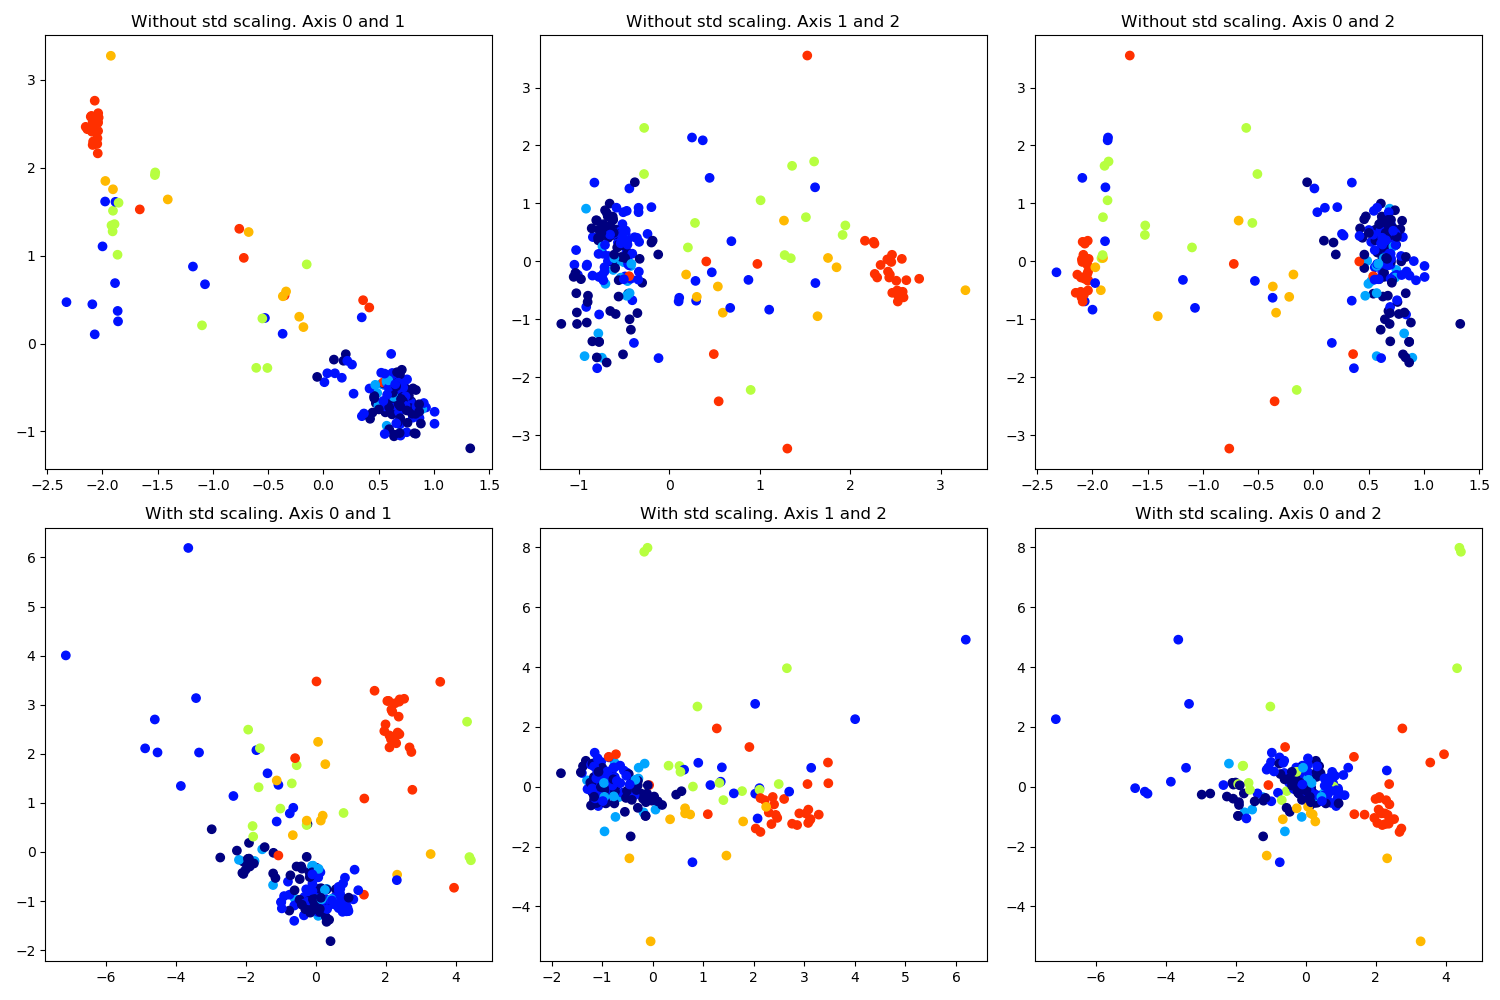
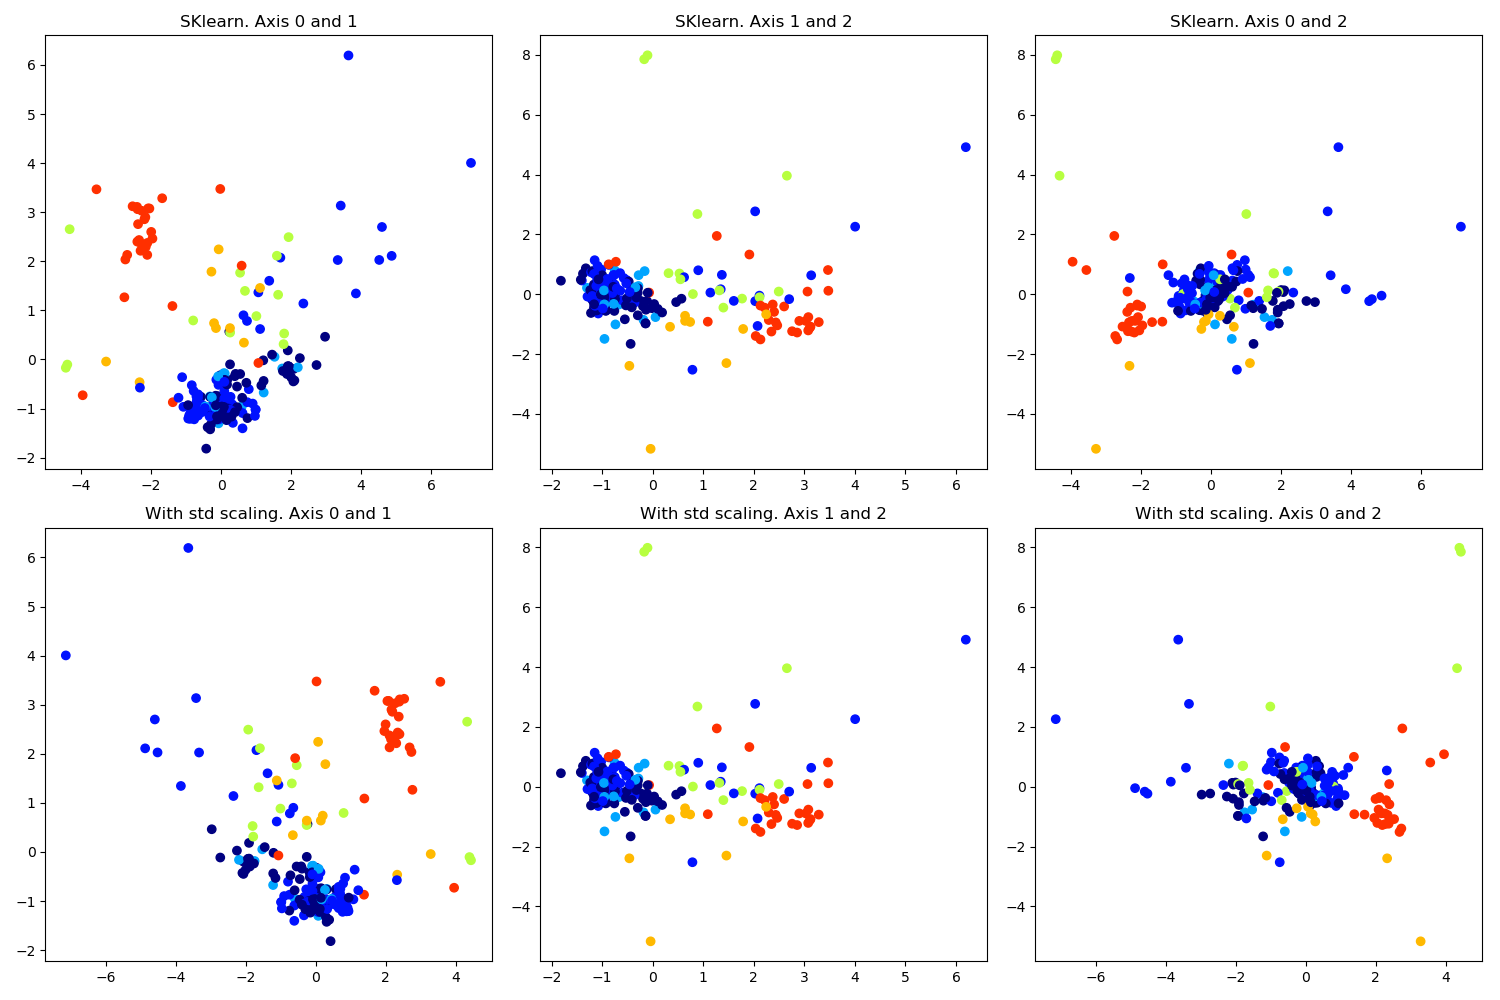
Add pca options for plot

diff --git a/lab2/pca.py b/lab2/pca.py
@@ -24,6 +24,9 @@ if len(sys.argv) != 2:
 #DATASET = "datasets/wine.arff"
 DATASET = sys.argv[1]
 GRAPH = True
+ERROR = False
+CORR = False #Plot covariance/correlation matrix?
+FIRST_COMP = False #Plot first components of X and Y?
 
 bn = os.path.basename(DATASET)
 img_fn = bn.replace('.arff', '.png')
@@ -59,14 +62,15 @@ mean_vec = np.matrix(np.mean(X, axis=0))
 n, m = X.shape
 M = np.repeat(mean_vec, n, axis=0)
 M = np.array(M)
-Xs = (X - M)
+Xc = (X - M) # Xc = X centered
 #sd = 1
-sd = np.std(Xs, axis=0)
-Xss = Xs/sd # Problem with division by 0
-Xss = np.nan_to_num(Xss)
+sd = np.std(Xc, axis=0)
+Xcs = Xc/sd # Xcs = X centered and scaled
+# Problem with division by 0
+Xcs = np.nan_to_num(Xcs)
 
-def PCA(Xs):
-	S = np.cov(Xs.T)
+def PCA(Xc):
+	S = np.cov(Xc.T)
 	eival, eivec = np.linalg.eig(S)
 
 	# Sort
@@ -85,75 +89,135 @@ def PCA(Xs):
 	k_fraq = np.sum(eival_bool)
 
 	k = max(3, k_fraq)
-	print(eival)
-	print(eival_cum)
-	print('k = {}'.format(k))
+	#print(eival)
+	#print(eival_cum)
+	#print('k = {}'.format(k))
 
 	keival = eival[0:k]
 	Zk = Z[:,0:k]
 
-	Yk = np.dot(Xs, Zk)
+	Yk = np.dot(Xc, Zk)
 
-	return Yk,keival
+	return Yk,keival,Zk
 
-#Yk, keival1 = PCA(Xs)
-Yks, keival = PCA(Xss)
+Yk, keival1, Zk = PCA(Xc)
+Yks, keival, Zks = PCA(Xcs)
 
+n_features = X.shape[1]
+k=keival.shape[0]
 skpca = skPCA(keival.shape[0])
-skpca.fit(Xss)
+skpca.fit(Xcs)
 res = skpca.explained_variance_
-skYk = skpca.transform(Xss)
+skYk = skpca.transform(Xcs)
 
 dist = round(np.linalg.norm(keival-res))
 
-print("Distance between our eigenvalues and SKlearn: {}".format(dist))
+#print("Distance between our eigenvalues and SKlearn: {}".format(dist))
 
-# Set the color map to match the number of species
-hot = plt.get_cmap('jet')
-cNorm  = colors.Normalize(vmin=0, vmax=len(classes))
-scalarMap = cmx.ScalarMappable(norm=cNorm, cmap=hot)
+# Project back the data
+Xc_ = np.dot(Yk, Zk.T) + M
+Xcs_ = np.dot(Yks, Zks.T)*sd + M
+
+from numpy.linalg import norm
+
+abs_cov = norm(X - Xc_)
+abs_cor = norm(X - Xcs_)
+
+rel_cov = abs_cov/norm(X)
+rel_cor = abs_cor/norm(X)
+
+#print("{}: R. err. cov={:.2f} cor={:.2f}. Abs. err cov={:.2f} cor={:.2f}".format(
+#	DATASET, rel_cov, rel_cor, abs_cov, abs_cor))
+
+absv0 = norm(X - Xc_, axis=0)
+absr0 = norm(X - Xcs_, axis=0)
+
+relv0 = absv0/norm(X, axis=0)
+relr0 = absr0/norm(X, axis=0)
+
+print("{}:  k/n = {}/{}. Mean rel error cov={}, corr={}".format(
+	DATASET, k, n_features, np.mean(relv0), np.mean(relr0)))
+
+if ERROR:
+
+	plt.close()
+	plt.plot(relv0, c='red', label='Covariance')
+	plt.plot(relr0, c='blue', label='Correlation')
+	plt.grid(True)
+	plt.title('Relative error by feature')
+	plt.legend()
+	#plt.show()
+	plt.savefig("fig/rel-error-by-feature-{}".format(img_fn))
+	plt.close()
+
+if FIRST_COMP:
+	# Set the color map to match the number of species
+	hot = plt.get_cmap('jet')
+	cNorm  = colors.Normalize(vmin=0, vmax=len(classes))
+	scalarMap = cmx.ScalarMappable(norm=cNorm, cmap=hot)
+
+	fig = plt.figure(figsize=(10, 5))
+
+	ax = fig.add_subplot(121)
+	ax.set_title('First two features of X')
+	ax.scatter(X[:,0], X[:,1], c=scalarMap.to_rgba(y))
+
+	ax = fig.add_subplot(122)
+	ax.set_title('First two components of the projected X')
+	ax.scatter(Yks[:,0], Yks[:,1], c=scalarMap.to_rgba(y))
+
+	plt.tight_layout()
+	plt.savefig('fig/components-wine.png')
+	#plt.show()
+	plt.close()
+
+if GRAPH:
+
+	# Set the color map to match the number of species
+	hot = plt.get_cmap('jet')
+	cNorm  = colors.Normalize(vmin=0, vmax=len(classes))
+	scalarMap = cmx.ScalarMappable(norm=cNorm, cmap=hot)
 
 
-fig = plt.figure(figsize=(15, 10))
+	fig = plt.figure(figsize=(15, 10))
 
-ax = fig.add_subplot(231)
-ax.set_title('SKlearn. Axis 0 and 1')
-ax.scatter(skYk[:,0], skYk[:,1], c=scalarMap.to_rgba(y))
+	ax = fig.add_subplot(231)
+	ax.set_title('SKlearn. Axis 0 and 1')
+	ax.scatter(skYk[:,0], skYk[:,1], c=scalarMap.to_rgba(y))
 
-ax = fig.add_subplot(232)
-ax.set_title('SKlearn. Axis 1 and 2')
-ax.scatter(skYk[:,1], skYk[:,2], c=scalarMap.to_rgba(y))
+	ax = fig.add_subplot(232)
+	ax.set_title('SKlearn. Axis 1 and 2')
+	ax.scatter(skYk[:,1], skYk[:,2], c=scalarMap.to_rgba(y))
 
-ax = fig.add_subplot(233)
-ax.set_title('SKlearn. Axis 0 and 2')
-ax.scatter(skYk[:,0], skYk[:,2], c=scalarMap.to_rgba(y))
+	ax = fig.add_subplot(233)
+	ax.set_title('SKlearn. Axis 0 and 2')
+	ax.scatter(skYk[:,0], skYk[:,2], c=scalarMap.to_rgba(y))
 
-#ax = fig.add_subplot(334)
-#ax.set_title('Without std scaling. Axis 0 and 1')
-#ax.scatter(Yk[:,0], Yk[:,1], c=scalarMap.to_rgba(y))
+	#ax = fig.add_subplot(334)
+	#ax.set_title('Without std scaling. Axis 0 and 1')
+	#ax.scatter(Yk[:,0], Yk[:,1], c=scalarMap.to_rgba(y))
 
-#ax = fig.add_subplot(335)
-#ax.set_title('Without std scaling. Axis 1 and 2')
-#ax.scatter(Yk[:,1], Yk[:,2], c=scalarMap.to_rgba(y))
+	#ax = fig.add_subplot(335)
+	#ax.set_title('Without std scaling. Axis 1 and 2')
+	#ax.scatter(Yk[:,1], Yk[:,2], c=scalarMap.to_rgba(y))
 
-#ax = fig.add_subplot(336)
-#ax.set_title('Without std scaling. Axis 0 and 2')
-#ax.scatter(Yk[:,0], Yk[:,2], c=scalarMap.to_rgba(y))
+	#ax = fig.add_subplot(336)
+	#ax.set_title('Without std scaling. Axis 0 and 2')
+	#ax.scatter(Yk[:,0], Yk[:,2], c=scalarMap.to_rgba(y))
 
-ax = fig.add_subplot(234)
-ax.set_title('With std scaling. Axis 0 and 1')
-ax.scatter(Yks[:,0], Yks[:,1], c=scalarMap.to_rgba(y))
+	ax = fig.add_subplot(234)
+	ax.set_title('With std scaling. Axis 0 and 1')
+	ax.scatter(Yks[:,0], Yks[:,1], c=scalarMap.to_rgba(y))
 
-ax = fig.add_subplot(235)
-ax.set_title('With std scaling. Axis 1 and 2')
-ax.scatter(Yks[:,1], Yks[:,2], c=scalarMap.to_rgba(y))
+	ax = fig.add_subplot(235)
+	ax.set_title('With std scaling. Axis 1 and 2')
+	ax.scatter(Yks[:,1], Yks[:,2], c=scalarMap.to_rgba(y))
 
-ax = fig.add_subplot(236)
-ax.set_title('With std scaling. Axis 0 and 2')
-ax.scatter(Yks[:,0], Yks[:,2], c=scalarMap.to_rgba(y))
+	ax = fig.add_subplot(236)
+	ax.set_title('With std scaling. Axis 0 and 2')
+	ax.scatter(Yks[:,0], Yks[:,2], c=scalarMap.to_rgba(y))
 
 
-plt.tight_layout()
-plt.savefig(img_path)
-#plt.show()
-
+	plt.tight_layout()
+	plt.savefig(img_path)
+	#plt.show()
